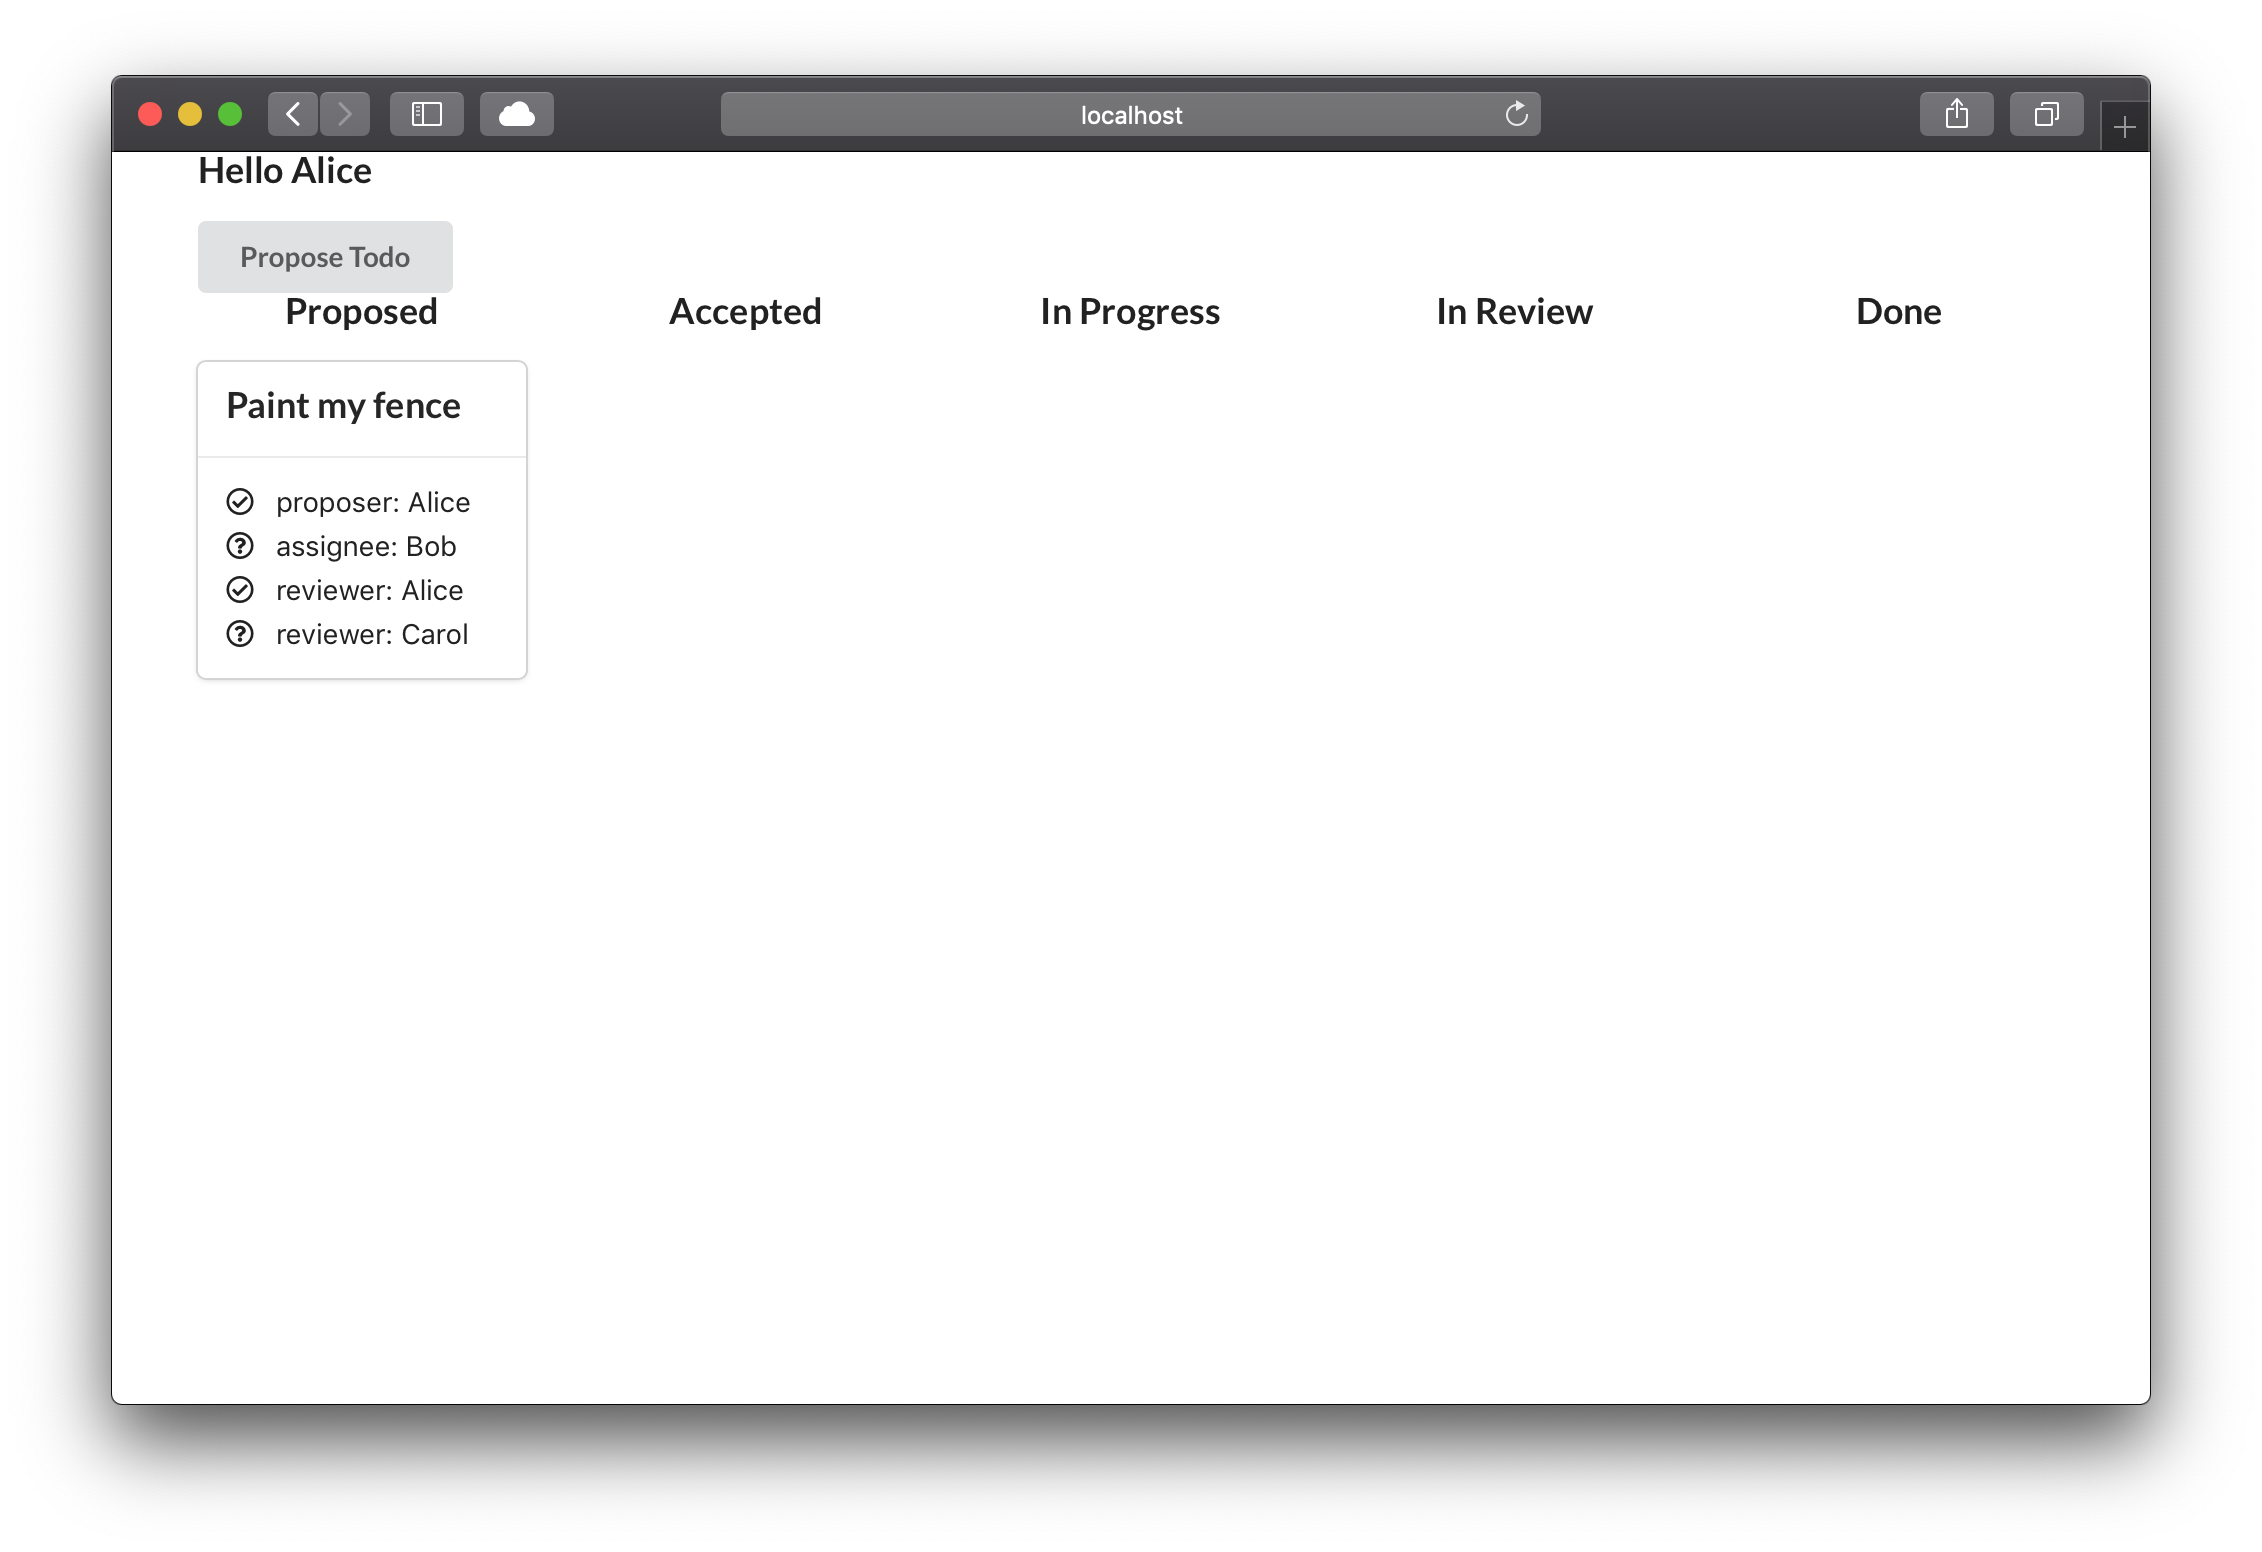
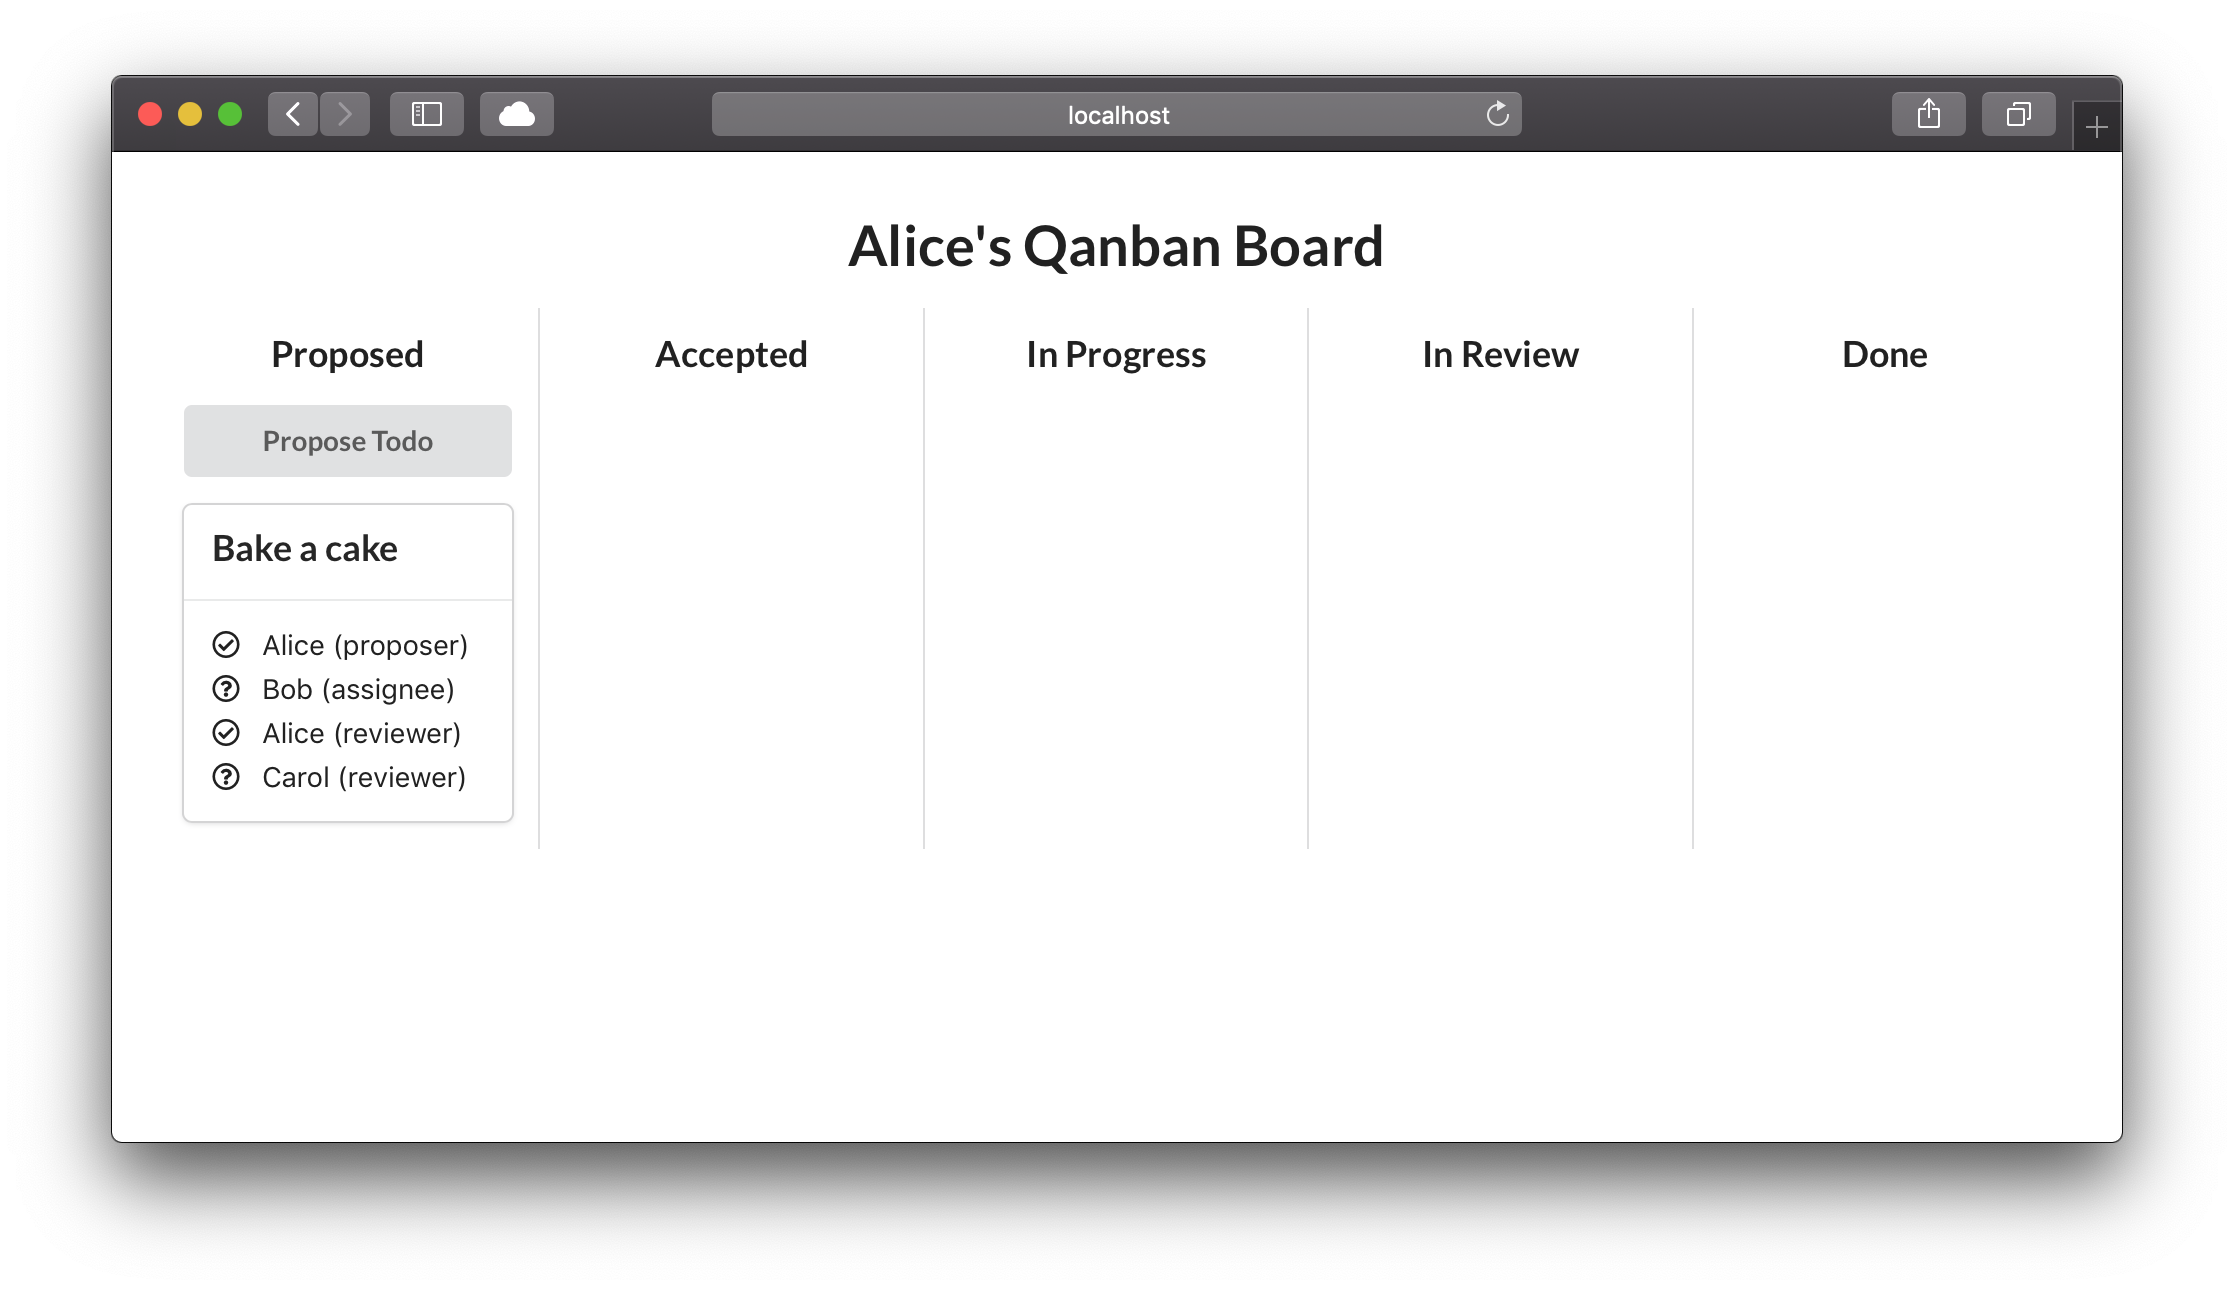
Optimize UI for screentshots

diff --git a/ui/src/Column.tsx b/ui/src/Column.tsx
@@ -1,6 +1,7 @@
 import React from 'react';
 import { Grid, Header, Card, Button, List, SemanticICONS } from 'semantic-ui-react';
 import { Id, ContractState, Contract, Party, UpdateCommand } from 'qanban-types';
+import ProposalButton from './ProposalButton';
 
 type Props = {
   participant: Party | undefined;
@@ -82,39 +83,39 @@ const ACTIONS: Record<ContractState, Action[]> = {
     callback: simpleCallback("finish"),
   }],
   "IN_REVIEW": [{
-    label: "Approve",
-    isActive: (participant, contract) => contract.missingApprovals.includes(participant),
-    callback: simpleCallback("approve"),
-  }, {
     label: "Reject",
     isActive: (participant, contract) => contract.missingApprovals.includes(participant),
     callback: rejectCallback(),
+  }, {
+    label: "Accept",
+    isActive: (participant, contract) => contract.missingApprovals.includes(participant),
+    callback: simpleCallback("approve"),
   }],
   "DONE": [],
-}
+};
+
+const ICONS: Record<ContractState, (party: Party, contract: Contract) => SemanticICONS> = {
+  "PROPOSED": (party, contract) =>
+    contract.missingAcceptances.includes(party) ? "question circle outline" : "check circle outline",
+  "ACCEPTED": (party, contract) =>
+    party === contract.assignee ? "play circle outline" : "circle outline",
+  "IN_PROGRESS": (party, contract) =>
+    party === contract.assignee ? "stop circle outline" : "circle outline",
+  "IN_REVIEW": (party, contract) =>
+    contract.missingApprovals.includes(party) ? "question circle outline" : "check circle outline",
+  "DONE": () => "check circle outline",
+};
 
 const Column: React.FC<Props> = props => {
   const contracts = props.contracts.filter(contract => contract.contract.state === props.state);
   return (
     <Grid.Column>
       <Header textAlign="center">{TITLES[props.state]}</Header>
+      {props.state !== "PROPOSED" ? null : <ProposalButton reload={props.reload} />}
       {contracts.map(({id, contract}) => {
-
-        let icon: (party: Party) => SemanticICONS = () => "circle outline";
-        switch (props.state) {
-          case "PROPOSED": {
-            const missingAcceptances = new Set<Party>(contract.missingAcceptances);
-            icon = (party: Party) => missingAcceptances.has(party) ? "question circle outline" : "check circle outline";
-            break;
-          }
-          case "IN_REVIEW": {
-            const missingApprovals = new Set<Party>(contract.missingApprovals);
-            icon = (party: Party) => missingApprovals.has(party) ? "question circle outline" : "check circle outline";
-            break;
-          }
-        }
         const actions = ACTIONS[props.state].filter(action =>
           props.participant !== undefined && action.isActive && action.isActive(props.participant, contract));
+        const icon = (party: Party) => ICONS[contract.state](party, contract);
 
         return (
           <Card key={id}>
@@ -123,10 +124,10 @@ const Column: React.FC<Props> = props => {
             </Card.Content>
             <Card.Content>
               <List>
-                <List.Item icon={icon(contract.proposer)} content={`proposer: ${contract.proposer}`} />
-                <List.Item icon={icon(contract.assignee)} content={`assignee: ${contract.assignee}`} />
+                <List.Item icon={icon(contract.proposer)} content={`${contract.proposer} (proposer)`} />
+                <List.Item icon={icon(contract.assignee)} content={`${contract.assignee} (assignee)`} />
                 {contract.reviewers.map(reviewer => (
-                  <List.Item key={reviewer} icon={icon(reviewer)} content={`reviewer: ${reviewer}`} />
+                  <List.Item key={reviewer} icon={icon(reviewer)} content={`${reviewer} (reviewer)`} />
                 ))}
               </List>
             </Card.Content>
@@ -137,8 +138,8 @@ const Column: React.FC<Props> = props => {
                 )}
               </List>
             </Card.Content>}
-            {actions.length === 0 ? null : <Card.Content extra>
-              <Button.Group fluid vertical>
+            {actions.length === 0 ? null :
+              <Button.Group attached="bottom" size="small">
                 {actions.map(action => (
                   <Button
                     key={action.label}
@@ -146,8 +147,7 @@ const Column: React.FC<Props> = props => {
                     content={action.label}
                   />
                 ))}
-              </Button.Group>
-            </Card.Content>}
+              </Button.Group>}
           </Card>
         );
       })}

diff --git a/ui/src/App.tsx b/ui/src/App.tsx
@@ -1,6 +1,6 @@
 import React, { useState, useEffect, useCallback } from 'react';
-import { Grid, Container, Header, Button, Modal, Form } from 'semantic-ui-react';
-import { Id, Contract, idDecoder, contractDecoder, allContractStates, partyDecoder, Party, CreateCommand, createCommandDecoder } from 'qanban-types';
+import { Grid, Container, Header } from 'semantic-ui-react';
+import { Id, Contract, idDecoder, contractDecoder, allContractStates, partyDecoder, Party } from 'qanban-types';
 import * as jtv from '@mojotech/json-type-validation';
 import Column from './Column';
 
@@ -54,74 +54,18 @@ const App: React.FC = () => {
     }
   }, [reload]);
 
-  const [editingProposal, setEditingProposal] = useState(false);
-  const [description, setDescription] = useState('');
-  const [assignee, setAssignee] = useState('');
-  const [reviewers, setReviewers] = useState('');
-
-  const handleSubmitProposal = async () => {
-    const command: CreateCommand = createCommandDecoder().runWithException({
-      type: "propose",
-      description,
-      assignee,
-      reviewers: reviewers.split(',').map(reviewer => reviewer.trim()),
-    });
-    const res = await fetch('/api/command', {
-      method: "POST",
-      headers: {
-        "Content-Type": "application/json",
-      },
-      body: JSON.stringify(command),
-    });
-    if (res.ok) {
-      setEditingProposal(false);
-      reload();
-    } else {
-      console.error(`command failed with status ${res.status}:`, res.body);
-    }
-  };
 
   return (
     <Container>
-      <Header>Hello {participant ?? '???'}</Header>
-      <Modal
-        trigger={<Button onClick={() => setEditingProposal(true)}>Propose Todo</Button>}
-        open={editingProposal}
-        onClose={() => setEditingProposal(false)}
+      <Header
+        id="qanban-title"
+        as="h1"
+        size="huge"
+        textAlign="center"
       >
-        <Modal.Header>Propose a new todo item</Modal.Header>
-        <Modal.Content>
-          <Form onSubmit={handleSubmitProposal}>
-            <Form.Field>
-              <label>Description</label>
-              <input
-                placeholder='Description'
-                value={description}
-                onChange={event => setDescription(event.currentTarget.value)}
-              />
-            </Form.Field>
-            <Form.Field>
-              <label>Assignee</label>
-              <input
-                placeholder='Assignee'
-                value={assignee}
-                onChange={event => setAssignee(event.currentTarget.value)}
-              />
-            </Form.Field>
-            <Form.Field>
-              <label>Reviewers (separate multiple by commas)</label>
-              <input
-                placeholder='Reviewers'
-                value={reviewers}
-                onChange={event => setReviewers(event.currentTarget.value)}
-              />
-            </Form.Field>
-            <Button type="submit">Submit</Button>
-            <Button type="button" onClick={() => setEditingProposal(false)}>Cancel</Button>
-          </Form>
-        </Modal.Content>
-      </Modal>
-      <Grid columns="5">
+        {participant  ?? '???'}'s Qanban Board
+      </Header>
+      <Grid columns="5" divided>
         {allContractStates.map(state => (
           <Column
             key={state}

diff --git a/ui/src/ProposalButton.tsx b/ui/src/ProposalButton.tsx
@@ -1,0 +1,78 @@
+import React, { useState } from 'react';
+import { Button, Modal, Form } from 'semantic-ui-react';
+import { CreateCommand, createCommandDecoder } from 'qanban-types';
+
+type Props = {
+  reload: () => void;
+}
+
+const ProposalButton: React.FC<Props> = ({reload}) => {
+  const [editingProposal, setEditingProposal] = useState(false);
+  const [description, setDescription] = useState('');
+  const [assignee, setAssignee] = useState('');
+  const [reviewers, setReviewers] = useState('');
+
+  const handleSubmitProposal = async () => {
+    const command: CreateCommand = createCommandDecoder().runWithException({
+      type: "propose",
+      description,
+      assignee,
+      reviewers: reviewers.split(',').map(reviewer => reviewer.trim()),
+    });
+    const res = await fetch('/api/command', {
+      method: "POST",
+      headers: {
+        "Content-Type": "application/json",
+      },
+      body: JSON.stringify(command),
+    });
+    if (res.ok) {
+      setEditingProposal(false);
+      reload();
+    } else {
+      console.error(`command failed with status ${res.status}:`, res.body);
+    }
+  };
+
+  return (
+    <Modal
+      trigger={<Button fluid onClick={() => setEditingProposal(true)}>Propose Todo</Button>}
+      open={editingProposal}
+      onClose={() => setEditingProposal(false)}
+    >
+      <Modal.Header>Propose a new todo item</Modal.Header>
+      <Modal.Content>
+        <Form onSubmit={handleSubmitProposal}>
+          <Form.Field>
+            <label>Description</label>
+            <input
+              placeholder='Description'
+              value={description}
+              onChange={event => setDescription(event.currentTarget.value)}
+            />
+          </Form.Field>
+          <Form.Field>
+            <label>Assignee</label>
+            <input
+              placeholder='Assignee'
+              value={assignee}
+              onChange={event => setAssignee(event.currentTarget.value)}
+            />
+          </Form.Field>
+          <Form.Field>
+            <label>Reviewers (separate multiple by commas)</label>
+            <input
+              placeholder='Reviewers'
+              value={reviewers}
+              onChange={event => setReviewers(event.currentTarget.value)}
+            />
+          </Form.Field>
+          <Button type="submit">Submit</Button>
+          <Button type="button" onClick={() => setEditingProposal(false)}>Cancel</Button>
+        </Form>
+      </Modal.Content>
+    </Modal>
+  );
+}
+
+export default ProposalButton;

diff --git a/ui/src/index.css b/ui/src/index.css
@@ -11,3 +11,16 @@ code {
   font-family: source-code-pro, Menlo, Monaco, Consolas, 'Courier New',
     monospace;
 }
+
+/* This fixes an unfixed bug in Semantic UI, see
+   https://github.com/Semantic-Org/Semantic-UI/pull/6335 */
+/* .ui.fluid.vertical.buttons > .button {
+  display: flex;
+  width: 100%;
+  justify-content: center;
+} */
+
+#qanban-title {
+  margin-top: 1em;
+  margin-bottom: 1em;
+}

diff --git a/README.md b/README.md
@@ -65,11 +65,10 @@ yarn run qanban-node Alice 3000
 yarn run qanban-node Bob 4000
 ```
 
-Next, we impersonate Alice and propose a todo item for Bob to paint her
-fence. Since Carol is an expert on judging the quality of paint, Alice
-also wants her approval before the todo can be considerer done. Thus Alice
-navigates to her frontend at http://localhost:3000 and finds a screen looking
-like
+Next, we impersonate Alice and propose a todo item for Bob to bake her a
+cake. Since Carol is a cake lover too, Alice also wants her approval before
+the todo can be considerer done. Thus Alice navigates to her frontend at
+http://localhost:3000 and finds a screen looking like:
 
 ![Alice' start screen](images/alice-start.png)
 
